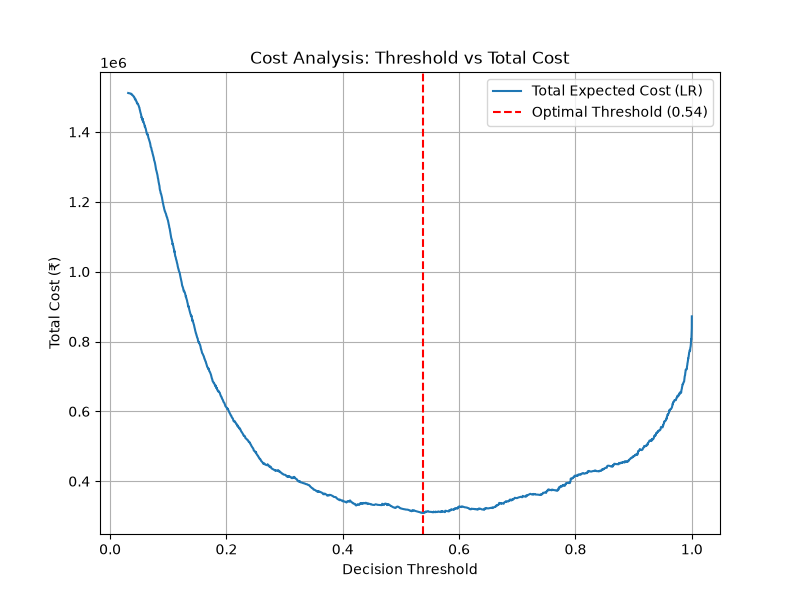
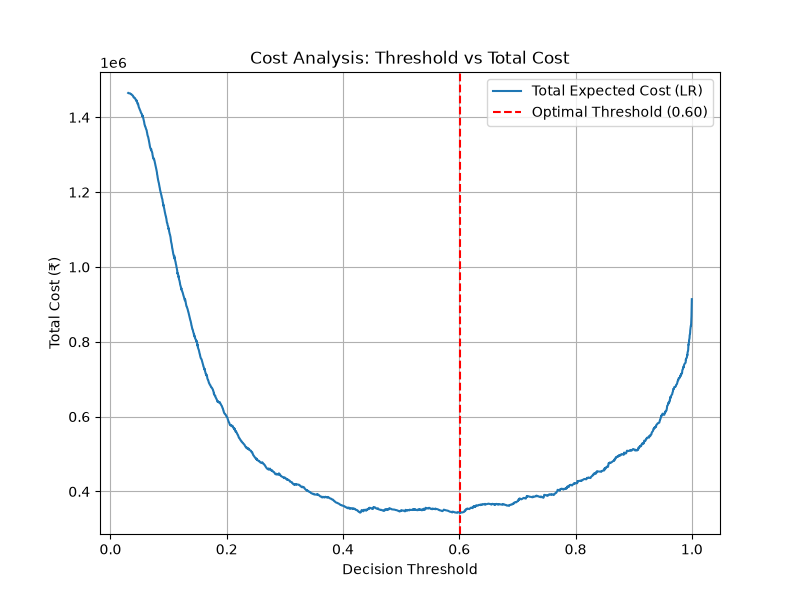
feat: add model artifacts, robustness metrics, and update feature selection in inference pipeline

diff --git a/ml/train_eval.py b/ml/train_eval.py
@@ -19,7 +19,7 @@ def load_and_preprocess_data(filepath=os.path.join(BASE_DIR, 'data', 'synthetic_
     
     # Exclude the debugging column and identifiers
     groups = df['customer_id']
-    X = df.drop(columns=['is_abusive_return', 'customer_type_DEBUG_ONLY', 'order_id', 'customer_id'])
+    X = df.drop(columns=['is_abusive_return', 'customer_type_DEBUG_ONLY', 'order_id', 'customer_id', 'address_id', 'payment_method_id'])
     y = df['is_abusive_return']
     
     # Identify categorical and numerical columns
@@ -153,7 +153,9 @@ def train_and_evaluate():
     plt.title('Precision-Recall Curve Comparison')
     plt.legend()
     plt.grid(True)
-    plt.savefig(os.path.join(BASE_DIR, 'docs', 'pr_curve_comparison.png'))
+    out_path = os.path.join(BASE_DIR, 'docs', 'pr_curve_comparison.png')
+    os.makedirs(os.path.dirname(out_path), exist_ok=True)
+    plt.savefig(out_path)
     plt.close()
     print("\nSaved PR Curve Comparison to pr_curve_comparison.png")
 
@@ -165,7 +167,9 @@ def train_and_evaluate():
     plt.title('Precision-Recall Curve')
     plt.legend()
     plt.grid(True)
-    plt.savefig(os.path.join(BASE_DIR, 'docs', 'pr_curve.png'))
+    out_path = os.path.join(BASE_DIR, 'docs', 'pr_curve.png')
+    os.makedirs(os.path.dirname(out_path), exist_ok=True)
+    plt.savefig(out_path)
     plt.close()
     print("Saved Original PR Curve (LR) to pr_curve.png")
     
@@ -178,7 +182,9 @@ def train_and_evaluate():
     plt.title('Cost Analysis: Threshold vs Total Cost')
     plt.legend()
     plt.grid(True)
-    plt.savefig(os.path.join(BASE_DIR, 'docs', 'cost_analysis.png'))
+    out_path = os.path.join(BASE_DIR, 'docs', 'cost_analysis.png')
+    os.makedirs(os.path.dirname(out_path), exist_ok=True)
+    plt.savefig(out_path)
     plt.close()
     print("Saved Original Cost Analysis to cost_analysis.png")
     
@@ -226,7 +232,9 @@ def train_and_evaluate():
             'feature_importances': feat_imp_xgb
         }
     }
-    with open(os.path.join(BASE_DIR, 'models', 'model_artifacts.pkl'), 'wb') as f:
+    out_path = os.path.join(BASE_DIR, 'models', 'model_artifacts.pkl')
+    os.makedirs(os.path.dirname(out_path), exist_ok=True)
+    with open(out_path, 'wb') as f:
         pickle.dump(model_artifacts, f)
     print("\nSaved model artifacts (both models) to model_artifacts.pkl")
 

diff --git a/ml/robustness_check.py b/ml/robustness_check.py
@@ -19,7 +19,7 @@ def run_robustness_check():
         artifacts = pickle.load(f)
     
     groups = df['customer_id']
-    X = df.drop(columns=['is_abusive_return', 'customer_type_DEBUG_ONLY', 'order_id', 'customer_id'])
+    X = df.drop(columns=['is_abusive_return', 'customer_type_DEBUG_ONLY', 'order_id', 'customer_id', 'address_id', 'payment_method_id'])
     y = df['is_abusive_return']
     
     categorical_cols = ['item_category', 'payment_method_type']
@@ -99,7 +99,9 @@ def run_robustness_check():
     print("\nRobustness Check Results:")
     print(df_results.to_string(index=False))
     
-    df_results.to_csv(os.path.join(BASE_DIR, 'data', 'robustness_results.csv'), index=False)
+    out_path = os.path.join(BASE_DIR, 'data', 'robustness_results.csv')
+    os.makedirs(os.path.dirname(out_path), exist_ok=True)
+    df_results.to_csv(out_path, index=False)
     print("\nSaved detailed results to data/robustness_results.csv")
     
     # One-line verdict

diff --git a/ml/generate_data.py b/ml/generate_data.py
@@ -237,7 +237,9 @@ def generate_synthetic_data(n_customers=5000, seed=42):
 if __name__ == "__main__":
     BASE_DIR = os.path.dirname(os.path.dirname(os.path.abspath(__file__)))
     df = generate_synthetic_data()
-    df.to_csv(os.path.join(BASE_DIR, 'data', 'synthetic_returns_data.csv'), index=False)
+    out_path = os.path.join(BASE_DIR, 'data', 'synthetic_returns_data.csv')
+    os.makedirs(os.path.dirname(out_path), exist_ok=True)
+    df.to_csv(out_path, index=False)
     print(f"Generated {len(df)} records across {df['customer_id'].nunique()} customers.")
     print(f"Overall abuse rate: {df['is_abusive_return'].mean():.2%}")
     print("\nAbuse rate by assigned customer type (sanity check):")

diff --git a/backend/app.py b/backend/app.py
@@ -48,8 +48,7 @@ def index():
 def get_orders():
     if model is None or orders_df.empty:
         return jsonify({"error": "Model or data not loaded"}), 500
-        
-    features = orders_df.drop(columns=['is_abusive_return', 'customer_type_DEBUG_ONLY', 'order_id', 'customer_id'])
+    features = orders_df.drop(columns=['is_abusive_return', 'customer_type_DEBUG_ONLY', 'order_id', 'customer_id', 'address_id', 'payment_method_id'])
     probs = model.predict_proba(features)[:, 1]
     
     orders_data = []

diff --git a/backend/db.py b/backend/db.py
@@ -9,6 +9,7 @@ DB_PATH = os.path.join(BASE_DIR, 'data', 'risk_audit.db')
 
 @contextmanager
 def get_db_connection():
+    os.makedirs(os.path.dirname(DB_PATH), exist_ok=True)
     conn = sqlite3.connect(DB_PATH)
     conn.row_factory = sqlite3.Row
     try:
@@ -17,6 +18,7 @@ def get_db_connection():
         conn.close()
 
 def init_db():
+    os.makedirs(os.path.dirname(DB_PATH), exist_ok=True)
     with get_db_connection() as conn:
         cursor = conn.cursor()
         

diff --git a/docs/README.md b/docs/README.md
@@ -56,32 +56,44 @@ This system catches these patterns *at order time* — before a single item ship
 ### 1. Install dependencies
 
 ```bash
-pip3 install pandas numpy scikit-learn matplotlib streamlit
+pip3 install pandas numpy scikit-learn matplotlib streamlit networkx xgboost flask
 ```
 
 ### 2. Generate data
 
 ```bash
-python3 generate_data.py
+python3 ml/generate_data.py
 ```
 
-Produces `synthetic_returns_data.csv` — 10,000 orders across 5,000 synthetic customers (~9.8% positive class).
+Produces `synthetic_returns_data.csv` in the `data/` folder.
 
 ### 3. Train and evaluate
 
 ```bash
-python3 train_eval.py
+python3 ml/train_eval.py
 ```
 
-Trains a Logistic Regression model, runs cost-analysis to find the optimal decision threshold, and saves `model_artifacts.pkl`, `pr_curve.png`, and `cost_analysis.png`.
+Trains models, finds optimal thresholds, and saves to `models/` and `docs/`.
 
-### 4. Run the demo
+### 4. Optional: Robustness & Ring Detection
 
 ```bash
-python3 -m streamlit run demo.py
+python3 ml/robustness_check.py
+python3 ml/ring_detector.py
 ```
 
-Opens an interactive UI in your browser. Adjust order features in the sidebar and get a live risk score + top 3 contributing factors in plain English.
+### 5. Run the Backend & Frontend
+
+Start the backend:
+```bash
+python3 backend/app.py
+```
+
+In a separate terminal, start the React frontend:
+```bash
+cd frontend
+npm run dev
+```
 
 ---
 
